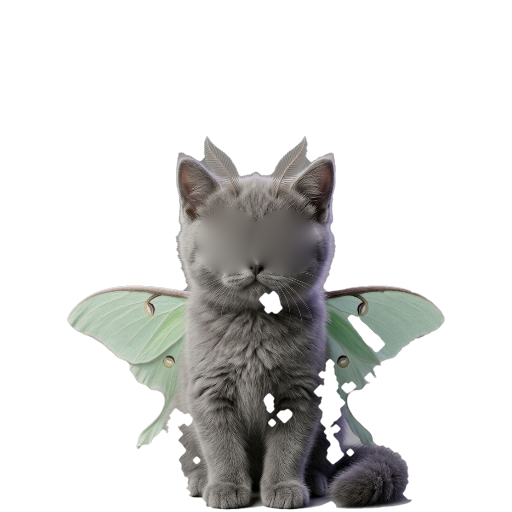
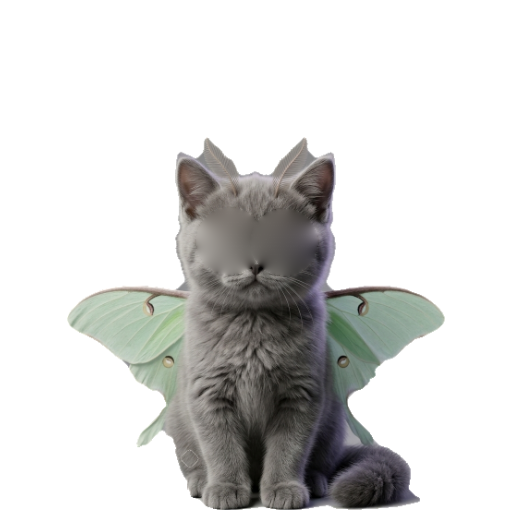
fix(pet): clean the three base pictures cut before the chroma key
The Mottenkatze, Kaninchenkatze and Koala-Flughund bases were cut from
their original studio and checkerboard photographs, and it showed: holes
through the grey cat's chest where its fur matched the grey wall, a ragged
outline on the rabbit-cat, and a comb of checkerboard squares hanging
under the koala's feet where the contact shadow had darkened them out of
the key.

* The two lit-backdrop creatures are re-keyed at 512, which is the size
  they are drawn at and the size the texture and opening thresholds are
  tuned for. Keyed at 1024 the same settings let the wall through.
* The checkerboard keeps its colour-only test. A texture gate was tried
  to rescue white fur from the white square and cannot work on a fine
  pattern: most of the board lies within one window of an edge, so on
  the koala's picture it removed nothing at all. White creatures get a
  green screen instead - which is how every pose was made.
* The koala's shadowed squares were taken out as compact light,
  colourless blocks below the paws; the paws' own highlights are
  scattered specks and survive.

`config/defaults.yaml` now names the seven creatures next to
`pet.variant`. The setting is a free text field, so without the list
nobody would know what to type.

Claude-Session: https://claude.ai/code/session_01V1JmYk4hPQ9PZfWqC65iWU

diff --git a/ui/pet/scripts/cut_out.py b/ui/pet/scripts/cut_out.py
@@ -14,6 +14,12 @@ Two ideas carry the result:
 * **Except when it is enclosed.** The field inside the curl of the tail is background too, and the
   border cannot reach it, so a closed region larger than a fur marking counts as well.
 
+**The thresholds are tuned for a picture about 512 across**, because that is the size the art is
+drawn at, and two of them - the texture window and the opening radius - are measured in pixels. A
+1024 source keyed at full size reads as finer-grained than the same picture halved and lets more
+through; a checkerboard halved reads as nothing but edges and lets nothing through. Hence
+`--max-size 512` for a flat or lit backdrop, and full size for a checkerboard.
+
 numpy only. `pngio` exists because Pillow is not a dependency of this project, and scipy arrives
 only indirectly through another package - `labels_of` below is what `scipy.ndimage.label` does.
 
@@ -156,11 +162,13 @@ def candidate_mask(rgb: np.ndarray, *, kind: str) -> np.ndarray:
     if kind == "checker":
         grey = rgb.mean(axis=2)
         near = np.minimum.reduce([np.abs(grey - tone) for tone in CHECKER_TONES])
-        # The light square of a checkerboard is white, and so is a white wolf. Colour decides
-        # nothing between them; a painted square is perfectly flat and fur never is.
-        return (near < TONE_TOLERANCE) & (chroma < CHROMA_LIMIT) & (
-            local_detail(rgb) < FLOOD_MAX_DETAIL
-        )
+        # No texture test here, unlike the lit backdrop below. It was tried, to separate a white
+        # creature from the white square of a checkerboard, and it cannot work on a pattern: the
+        # squares are only tens of pixels across, so most of the board lies within a texture
+        # window of an edge and reads as textured. On a picture with fine squares it removed
+        # nothing at all. A white creature needs a green screen, not a cleverer threshold - see
+        # the chroma key below.
+        return (near < TONE_TOLERANCE) & (chroma < CHROMA_LIMIT)
     if kind == "gradient":
         difference = rgb - backdrop_surface(rgb)
         close = np.abs(difference).max(axis=2) < GRADIENT_TOLERANCE
@@ -226,7 +234,7 @@ def background_of(rgb: np.ndarray, *, kind: str) -> np.ndarray:
     if not keep:
         return np.zeros_like(candidate)
     found = np.isin(labels, list(keep))
-    if kind in ("gradient", "checker"):
+    if kind == "gradient":
         found = opened(found, OPENING_RADIUS)
         found = regrow_halo(rgb, found, kind=kind)
     return found
@@ -424,7 +432,9 @@ def main() -> int:
         help=(
             "key at this resolution instead of the source's. The flood fill costs more than "
             "linearly in pixels, and a pose frame ends up at 512 anyway, so halving first is "
-            "most of the time back for an edge nobody will see at the size it is drawn"
+            "most of the time back for an edge nobody will see at the size it is drawn. "
+            "Not for a checkerboard: its squares halve with the picture until every pixel is "
+            "near an edge, every pixel therefore counts as textured, and nothing is removed"
         ),
     )
     parser.add_argument(

diff --git a/ui/pet/scripts/README.md b/ui/pet/scripts/README.md
@@ -37,6 +37,29 @@ Key poses are separate art and arrive the same way: cut the picture out, then
 the same ground line. That alignment is what makes a cross-dissolve read as the creature lying
 down rather than as a cut to a different picture.
 
+## Asking a generator for pose art
+
+Two things decide whether the result is usable, and neither is the wording of the pose.
+
+**Attach the creature.** Describing it gets a new animal that merely matches the description - the
+first attempt at a sitting Chamster came back a different colour with a different face. Attaching
+its base picture and asking for the same animal in a new pose keeps it the same animal.
+
+**Ask for a green screen, not transparency.** Asked for transparency the generator bakes a
+checkerboard into the pixels, and its light square is pure white, which is also what a white wolf
+is made of. No threshold separates those. A flat chroma green keys cleanly off any creature that
+is not itself green:
+
+```
+.venv/Scripts/python.exe ui/pet/scripts/cut_out.py raw.png cut.png     --background flat --tolerance 60 --max-size 512 --chroma
+```
+
+`--chroma` is what makes the fur edge right rather than merely present: it measures coverage from
+the key colour left in each pixel, then takes that colour back out, so half a tuft of fur is
+stored as half covered instead of as a green rim. The creatures with green of their own - the
+Chamster's scales, the Mottenkatze's wings - survive it, a little desaturated at the edges, because
+the flood still decides what is background and they are not connected to the screen.
+
 | Script | What it owns |
 | --- | --- |
 | `pngio.py` | RGBA PNG read/write on `zlib` + `numpy`, so no script here needs Pillow. |
